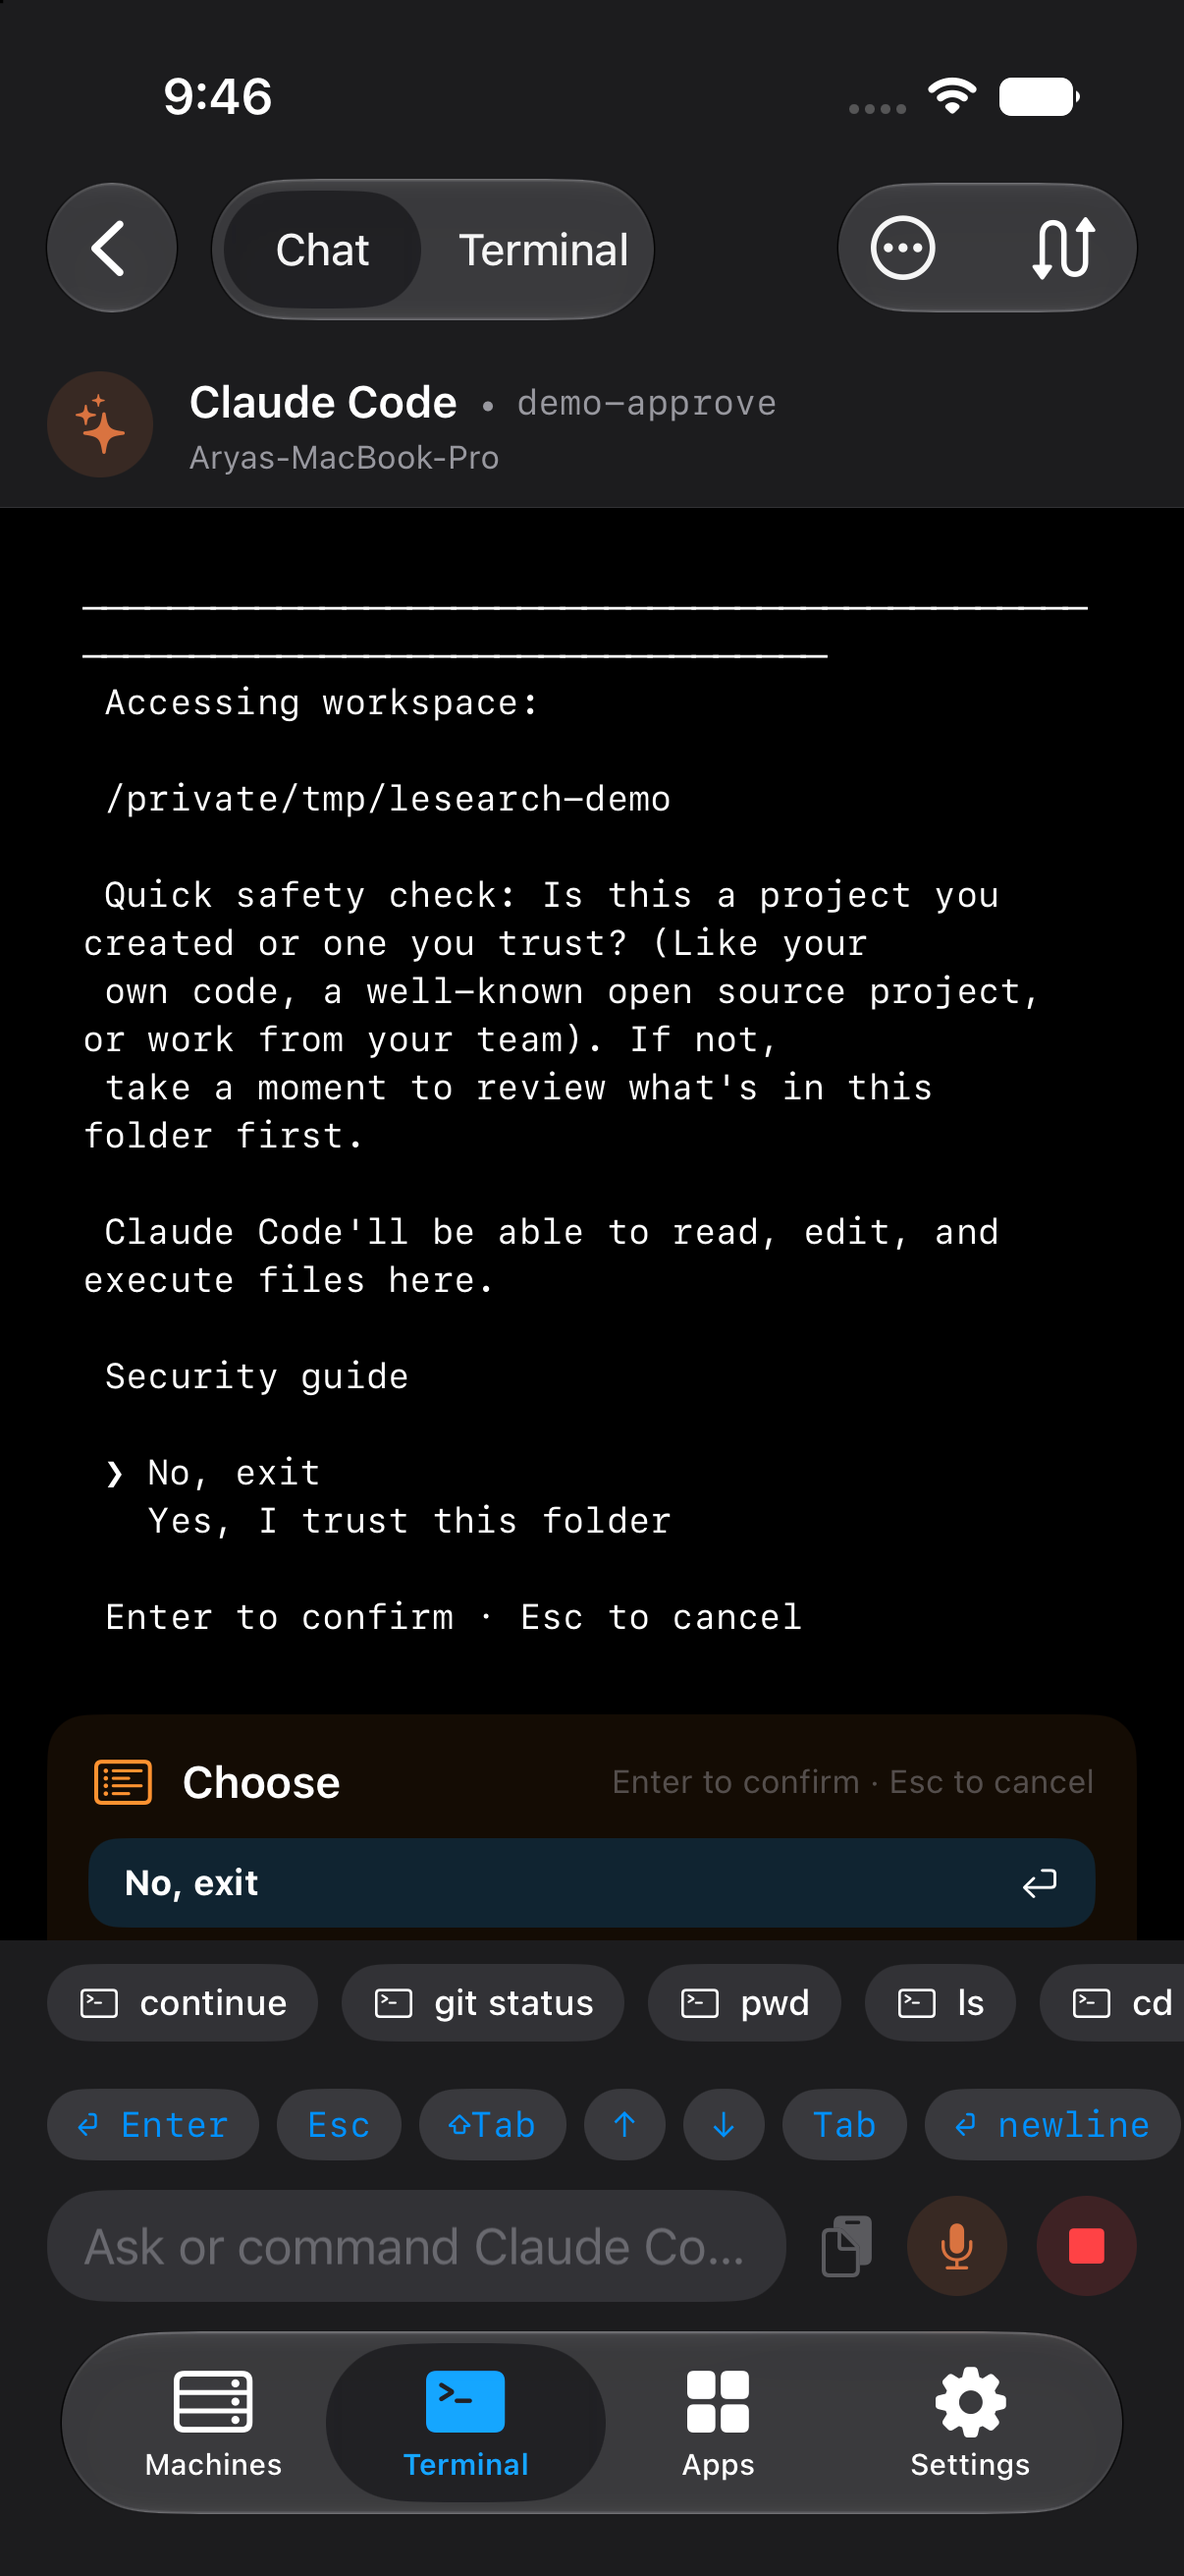
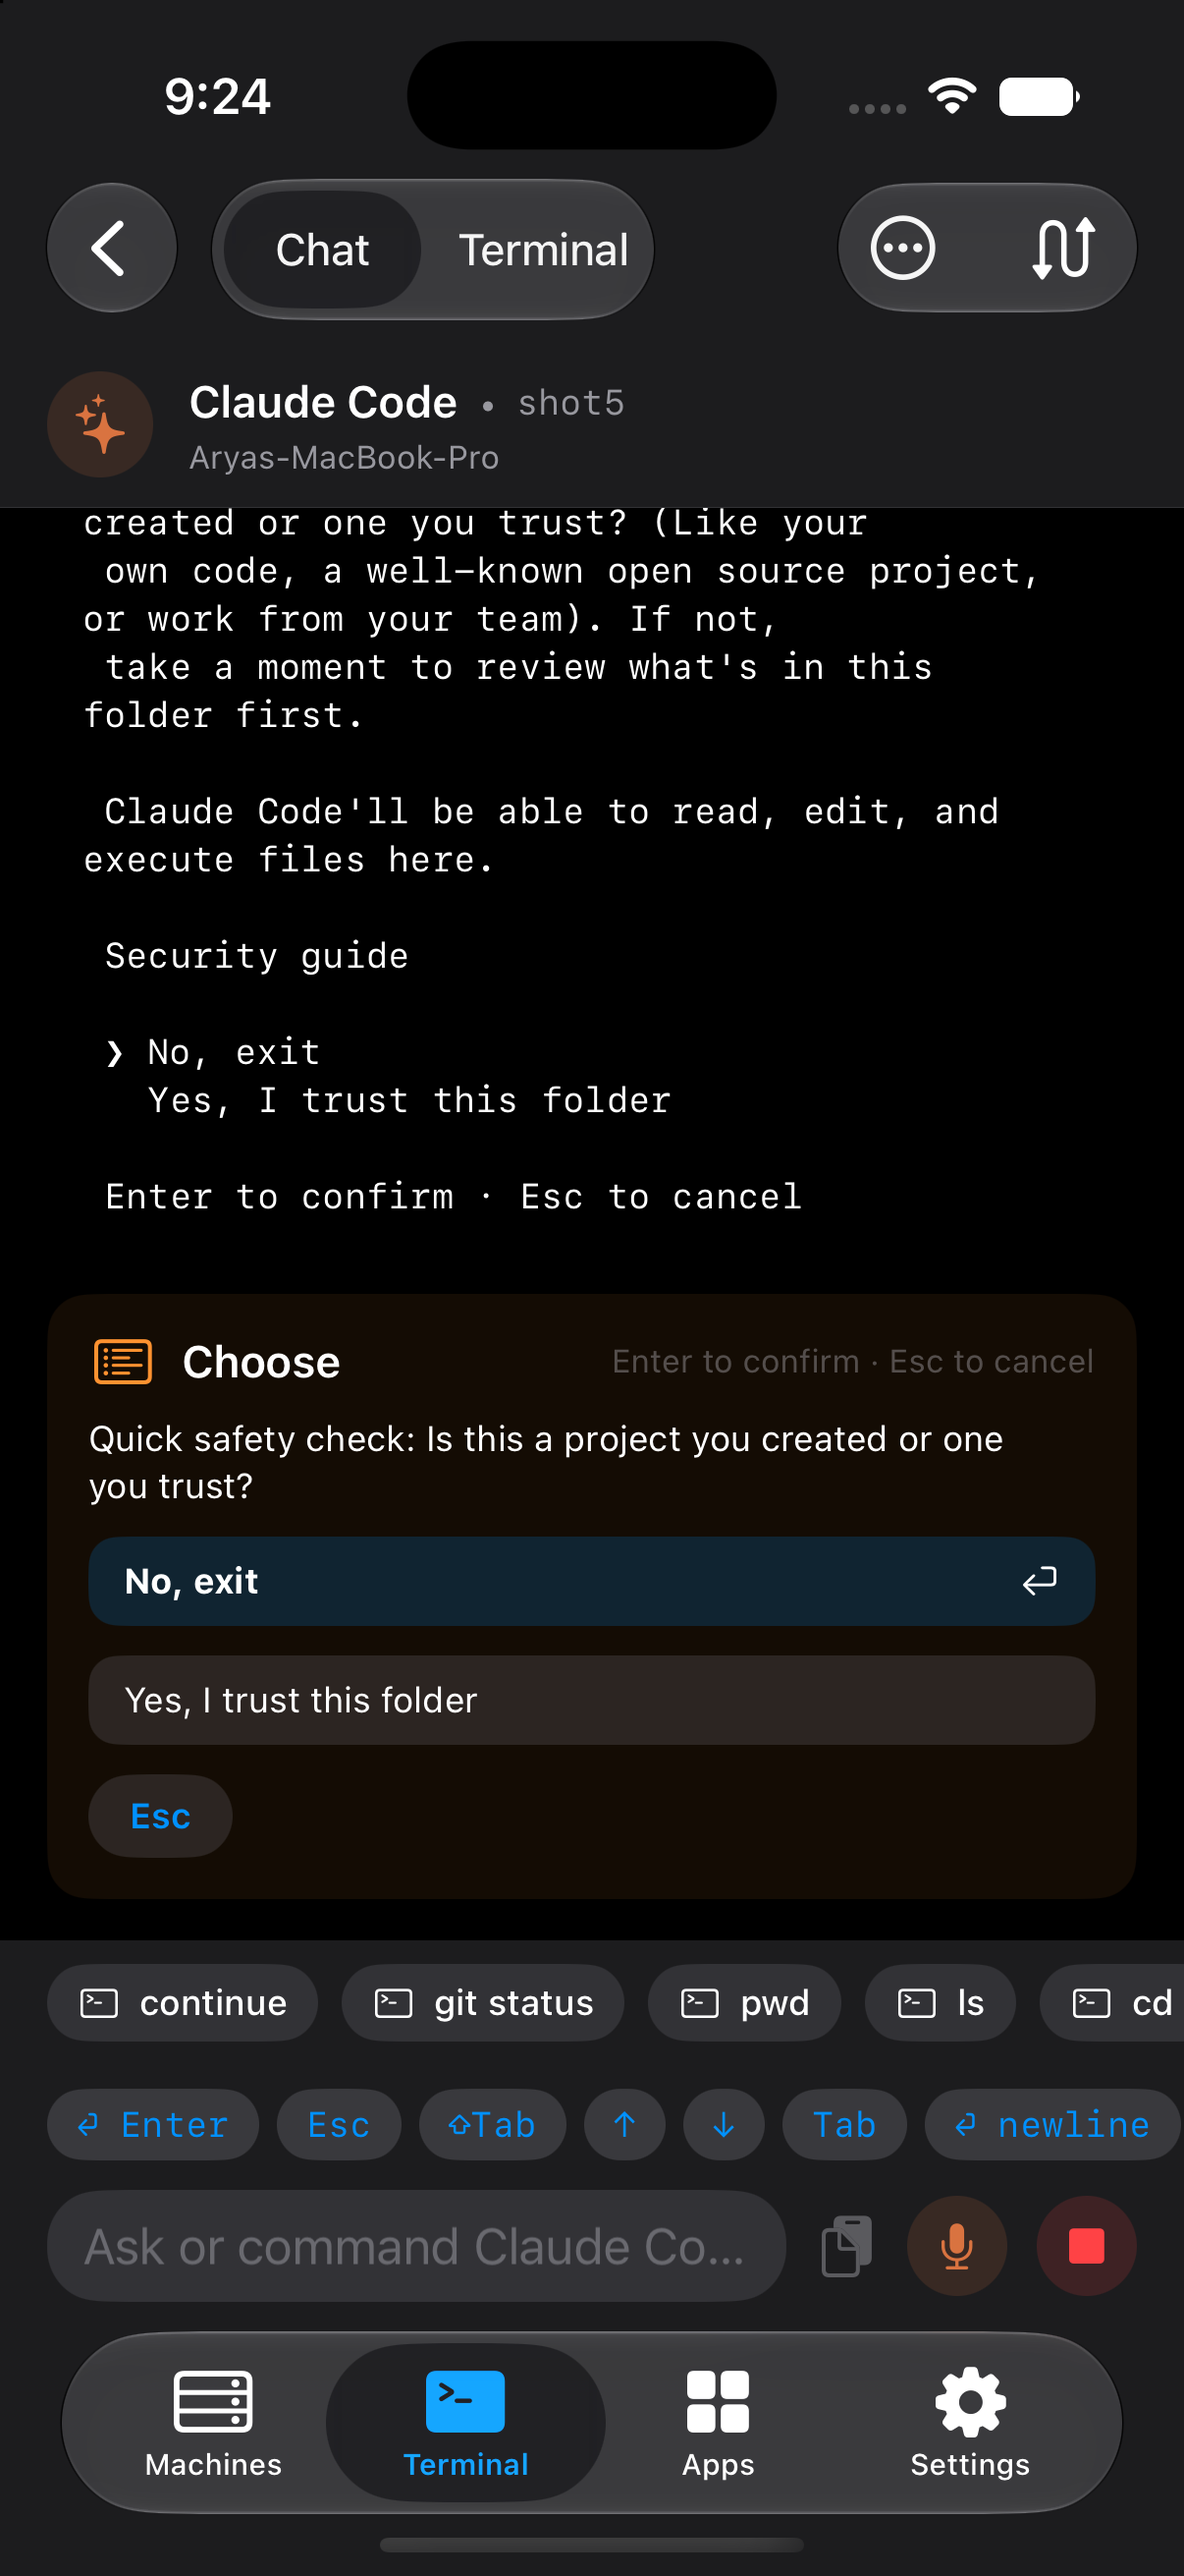
docs(shots): the Choose card carrying the real question, on the fixed build
Recapture of web/shots/iphone-choose.png and docs/product/shots/iphone-choose.png
against 9f74d6f, on a live Claude Code trust prompt (mesh session shot5 on the Mac
daemon, phone paired to the live fleet). The card now reads

    Choose
    Quick safety check: Is this a project you created or one you trust?
    No, exit
    Yes, I trust this folder

instead of "Security guide", which is the link label Claude Code prints above the
options and what the old parser picked. The run record's "NOT re-shot, and why"
section becomes the story of the bug and the recapture.

Also records in BLOCKED.md why the full gate cannot go green here: check-brain asks
each machine's local model for a tool call, and this Mac's only ollama model is a
text fine-tune that answers in prose. Two ways to close it, both Arya's.

diff --git a/web/index.html b/web/index.html
@@ -179,7 +179,7 @@ footer{border-top:1px solid var(--line);padding:26px 0 46px}
         pane, shown as buttons. Your tap sends the cursor moves and Enter.</p>
     </div>
     <figure class="phone">
-      <img src="/shots/iphone-choose.png" alt="A Claude Code trust prompt on the phone, with a Choose card offering each option as a button">
+      <img src="/shots/iphone-choose.png" alt="A Claude Code trust prompt on the phone: the Choose card carries the question it asked and offers each option as a button">
       <figcaption>The same card appears on the watch.</figcaption>
     </figure>
   </div>

diff --git a/docs/factory/runs/2026-09-22T140000Z-landing-relaunch.md b/docs/factory/runs/2026-09-22T140000Z-landing-relaunch.md
@@ -103,34 +103,43 @@ real watch capture.
 Where generated imagery does fit later: environment and lighting only, with our real
 screens composited in afterwards — or brand work that never depicts the UI.
 
-## The Choose screenshot was NOT re-shot, and why
+## The Choose card: a bug found by recapturing, then the recapture
 
 The parallel session changed the Choose card on 2026-09-23 so it carries the question the
-agent asked (before, the watch showed "Yes / No" with no subject). The landing page's
-`shots/iphone-choose.png` is therefore one build stale, and the plan was to recapture it.
-
-Recapturing found a bug instead. On a real Claude Code **trust-folder prompt** — the first
-thing Claude Code asks in any folder it has not seen — the new card reads:
+agent asked (before, the watch and phone showed "No, exit / Yes, I trust this folder" with
+no subject). Recapturing the landing page's `shots/iphone-choose.png` on that build found a
+bug first. On a real Claude Code **trust-folder prompt** — the first thing Claude Code asks
+in any folder it has not seen — the new card read:
 
     Choose
     Security guide
-    › No, exit
+    > No, exit
       Yes, I trust this folder
 
 "Security guide" is the link label Claude Code prints above the options; the question
 ("Quick safety check: Is this a project you created or one you trust?") is three lines
-higher. The parser takes the last line before the options, which is right for a Bash
+higher. The parser took the last line before the options, which is right for a Bash
 permission menu and wrong here. Evidence:
 `docs/overnight/2026-09-21/shots/choose-card-trust-prompt-wrong-question.png`, captured on
-9bbf8c6 against a live session on the Mac daemon.
+9bbf8c6 against a live session on the Mac daemon. The page kept the older capture until the
+parser handled the shape — putting the words "Security guide" on the front page as the thing
+a user is approving would have been shipping the bug as the pitch.
 
-So the page keeps the older capture — a genuine Claude Code trust prompt, card without the
-question line — until the parser handles this shape. Swapping now would put the word
-"Security guide" on the front page as the thing a user is approving. Recapture takes five
-minutes once it is fixed.
+The parallel session fixed it in 9f74d6f, and this is the recapture on that build: a fresh
+`mesh new shot5 --cmd claude --cwd /tmp/ls-shot5` parked at its trust prompt, the simulator
+paired to the live fleet over loopback, and the card now reads
 
-One thing the attempt did prove, end to end: tapping *Yes, I trust this folder* on the
-phone's card advanced the real pane on the Mac. The answer path works.
+    Choose
+    Quick safety check: Is this a project you created or one you trust?
+    No, exit
+    Yes, I trust this folder
+
+which is the whole claim of that section — the question and the options, on the phone,
+without reading the pane. `web/shots/iphone-choose.png` and
+`docs/product/shots/iphone-choose.png` are that capture.
+
+One thing the first attempt proved end to end, and it still holds: tapping *Yes, I trust
+this folder* on the phone's card advanced the real pane on the Mac. The answer path works.
 
 ## Gate
 

diff --git a/BLOCKED.md b/BLOCKED.md
@@ -63,3 +63,21 @@ human) already names the decision and the hatch:
 on a Keychain dialog for `asc` (memory: shell-slowness-and-asc-keychain) — keep the Mac
 unlocked. Until then the public link serves the 2026-08-27 build; the landing and
 getting-started say "TestFlight" and are correct the moment this lands.
+
+## The Mac has no tool-calling local model, so the full gate cannot go green
+`check-brain` (inside `check-overnight`, inside the full gate) asks each machine's local
+model server for a tool call. The Pi and the Jetson answer (ollama, qwen3:1.7b and
+qwen3:4b). This Mac answers on ollama :11434 but its only model is `nl2shell-local`
+(811 MB, a text fine-tune): it replies `get_time machine="jetson"` as prose instead of
+emitting a tool call, so the check fails — correctly. Whatever served the Mac's brain
+earlier today (edge0 on :8001, per the overnight record) is not running any more; the
+Mac daemon restarted around 09:00 and Tailscale had stopped.
+
+Two ways to close it, both yours because both cost something of yours:
+- `ollama pull qwen3:1.7b` on this Mac (~1.4 GB download, the same model the Pi runs), or
+- start whatever served :8001 before (edge0 / LM Studio) and leave it running.
+
+Until then the publish ledger cannot carry a green full-gate line at a current sha, and
+`scripts/check-published.sh` will say so rather than pretend. Nothing about the app, the
+daemon, the site or the feedback pipeline is affected — this is one live check about local
+models on one machine.
